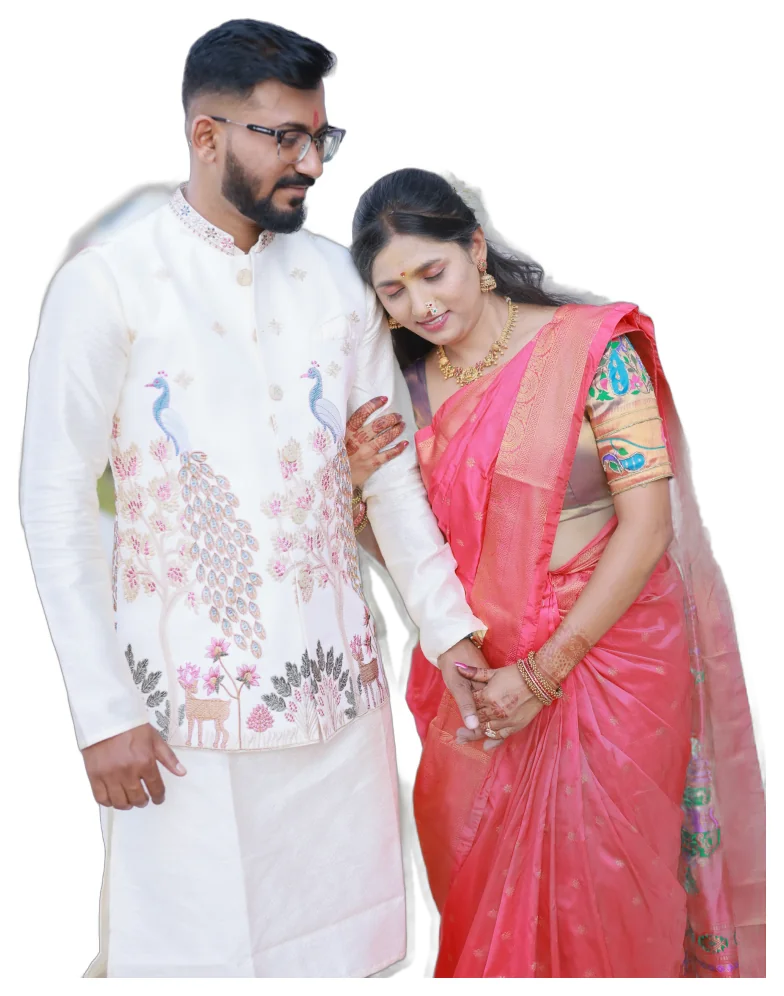
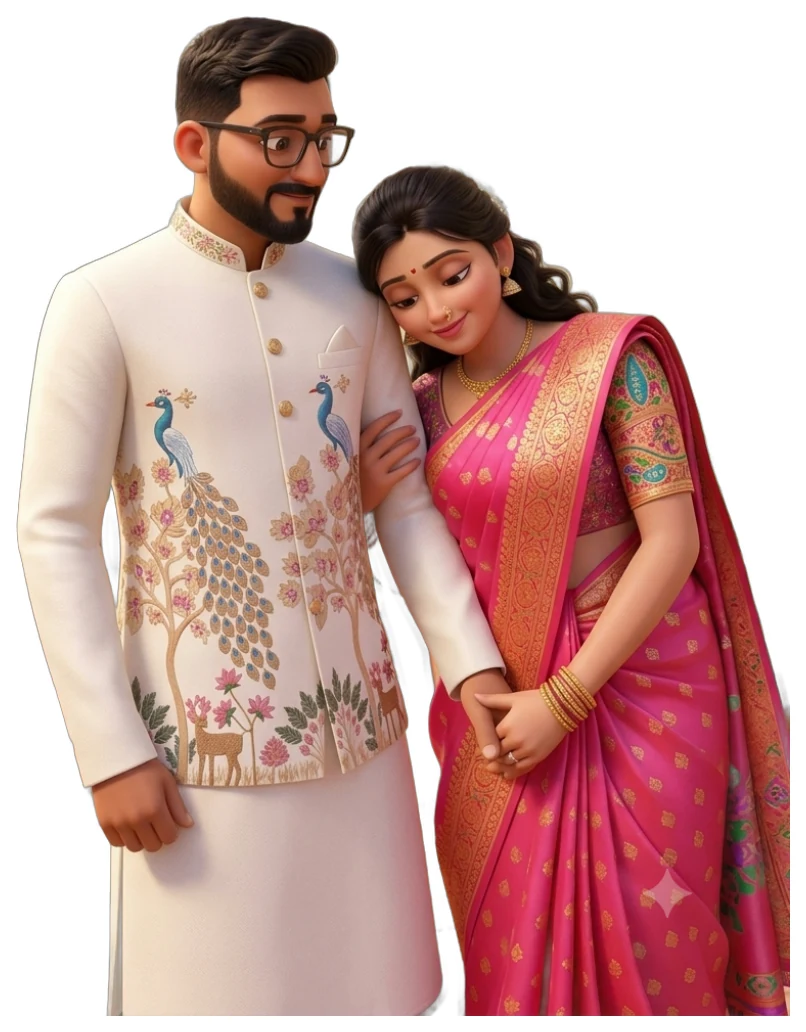
Use the couple's own cartoon portraits in scenes and moments gallery
Claude-Session: https://claude.ai/code/session_01Wo81nbHCr8vnxgkWgdvqP2

diff --git a/index.html b/index.html
@@ -309,7 +309,7 @@ footer small{display:block;margin-top:6px;color:#7a5a4a}
   <div class="scene reveal" data-parallax>
    <div class="sky" data-depth="4"></div>
    <svg class="land" data-depth="10" viewBox="0 0 600 360" style="top:18%"><use href="#landscape"/></svg>
-   <img class="couple" data-depth="22" data-hearts src="assets/cartoon-hero.webp" alt="Akash and Akshada — Akash and Akshada holding hands, he in a peacock-embroidered jacket and she in a pink Paithani saree" width="721" height="1000">
+   <img class="couple" data-depth="22" data-hearts src="assets/cartoon-hero.webp" alt="Cartoon of Akash and Akshada holding hands, he in a peacock-embroidered jacket and she in a pink Paithani saree" width="721" height="1000">
    <img class="flowers r" data-depth="30" src="assets/flowers-corner.jpg" alt="">
    <img class="flowers l" data-depth="30" src="assets/flowers-corner.jpg" alt="">
    <button class="bell" data-depth="26" aria-label="Ring the temple bell"><svg viewBox="0 0 60 120"><use href="#bellsym"/></svg></button>
@@ -378,7 +378,7 @@ footer small{display:block;margin-top:6px;color:#7a5a4a}
    <div class="scene reveal" data-parallax>
     <div class="sky" data-depth="4"></div>
     <svg class="land" data-depth="10" viewBox="0 0 600 360" style="top:22%"><use href="#landscape"/></svg>
-    <img class="couple" data-depth="20" data-hearts src="assets/cartoon-story.webp" alt="Akash and Akshada — Akash and Akshada walking together" width="513" height="1000" loading="lazy" style="height:90%">
+    <img class="couple" data-depth="20" data-hearts src="assets/cartoon-story.webp" alt="Cartoon of Akash with his arm around Akshada" width="513" height="1000" loading="lazy" style="height:90%">
     <img class="flowers r" data-depth="28" src="assets/flowers-corner.jpg" alt="">
    </div>
    <ol class="steps">
@@ -395,10 +395,10 @@ footer small{display:block;margin-top:6px;color:#7a5a4a}
   <h2 class="script h2">Little Moments</h2>
   <div class="h2-mr">आमचे काही गोड क्षण</div>
   <div class="photos">
-   <button class="polaroid reveal" style="--r:-4deg" data-full="assets/photos/first-date.jpg"><img style="object-position:50% 85%" src="assets/photos/first-date.jpg" alt="Akash and Akshada smiling at a restaurant" loading="lazy"><span>हसरे क्षण</span><small>happy days</small></button>
-   <button class="polaroid reveal" style="--r:3deg" data-full="assets/photos/together.jpg"><img src="assets/photos/together.jpg" alt="Akash and Akshada in traditional attire" loading="lazy"><span>हातात हात</span><small>hand in hand</small></button>
-   <button class="polaroid reveal" style="--r:-2deg" data-full="assets/photos/walk.jpg"><img src="assets/photos/walk.jpg" alt="Akash and Akshada walking together" loading="lazy"><span>सोबत चालताना</span><small>walking together</small></button>
-   <button class="polaroid reveal" style="--r:4deg" data-full="assets/photos/lean.jpg"><img src="assets/photos/lean.jpg" alt="Akshada leaning on Akash's shoulder" loading="lazy"><span>तुझी साथ</span><small>always with you</small></button>
+   <button class="polaroid reveal" style="--r:-4deg" data-full="assets/moments/dinner.jpg"><img src="assets/moments/dinner.jpg" alt="Akash and Akshada cartoon at dinner" loading="lazy"><span>हसरे क्षण</span><small>happy days</small></button>
+   <button class="polaroid reveal" style="--r:3deg" data-full="assets/moments/together.jpg"><img src="assets/moments/together.jpg" alt="Akash and Akshada cartoon holding hands" loading="lazy"><span>हातात हात</span><small>hand in hand</small></button>
+   <button class="polaroid reveal" style="--r:-2deg" data-full="assets/moments/close.jpg"><img src="assets/moments/close.jpg" alt="Akash and Akshada cartoon standing close" loading="lazy"><span>जवळीक</span><small>close to you</small></button>
+   <button class="polaroid reveal" style="--r:4deg" data-full="assets/moments/lean.jpg"><img src="assets/moments/lean.jpg" alt="Akshada leaning on Akash's shoulder, cartoon" loading="lazy"><span>तुझी साथ</span><small>always with you</small></button>
   </div>
  </section>
 
@@ -407,7 +407,7 @@ footer small{display:block;margin-top:6px;color:#7a5a4a}
   <div class="scene reveal" data-parallax>
    <div class="sky" data-depth="4"></div>
    <svg class="land" data-depth="10" viewBox="0 0 600 360" style="top:16%"><use href="#landscape"/></svg>
-   <img class="couple" data-depth="20" data-hearts src="assets/cartoon-blessing.webp" alt="Akash and Akshada — Akshada leaning on Akash's shoulder" width="779" height="1000" loading="lazy">
+   <img class="couple" data-depth="20" data-hearts src="assets/cartoon-blessing.webp" alt="Cartoon of Akshada leaning on Akash's shoulder" width="779" height="1000" loading="lazy">
    <img class="flowers r" data-depth="28" src="assets/flowers-corner.jpg" alt="">
    <img class="flowers l" data-depth="28" src="assets/flowers-corner.jpg" alt="">
   </div>
